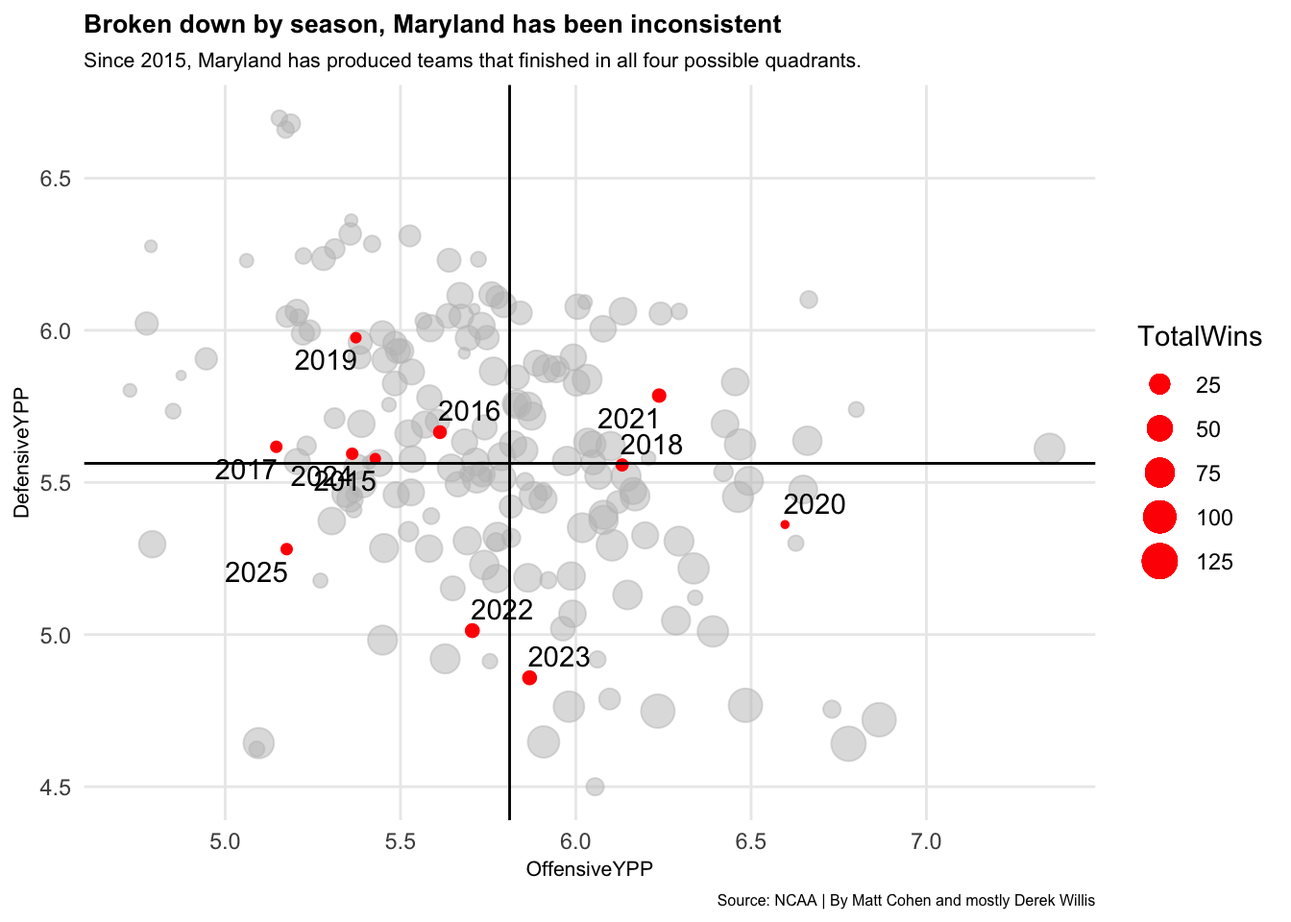
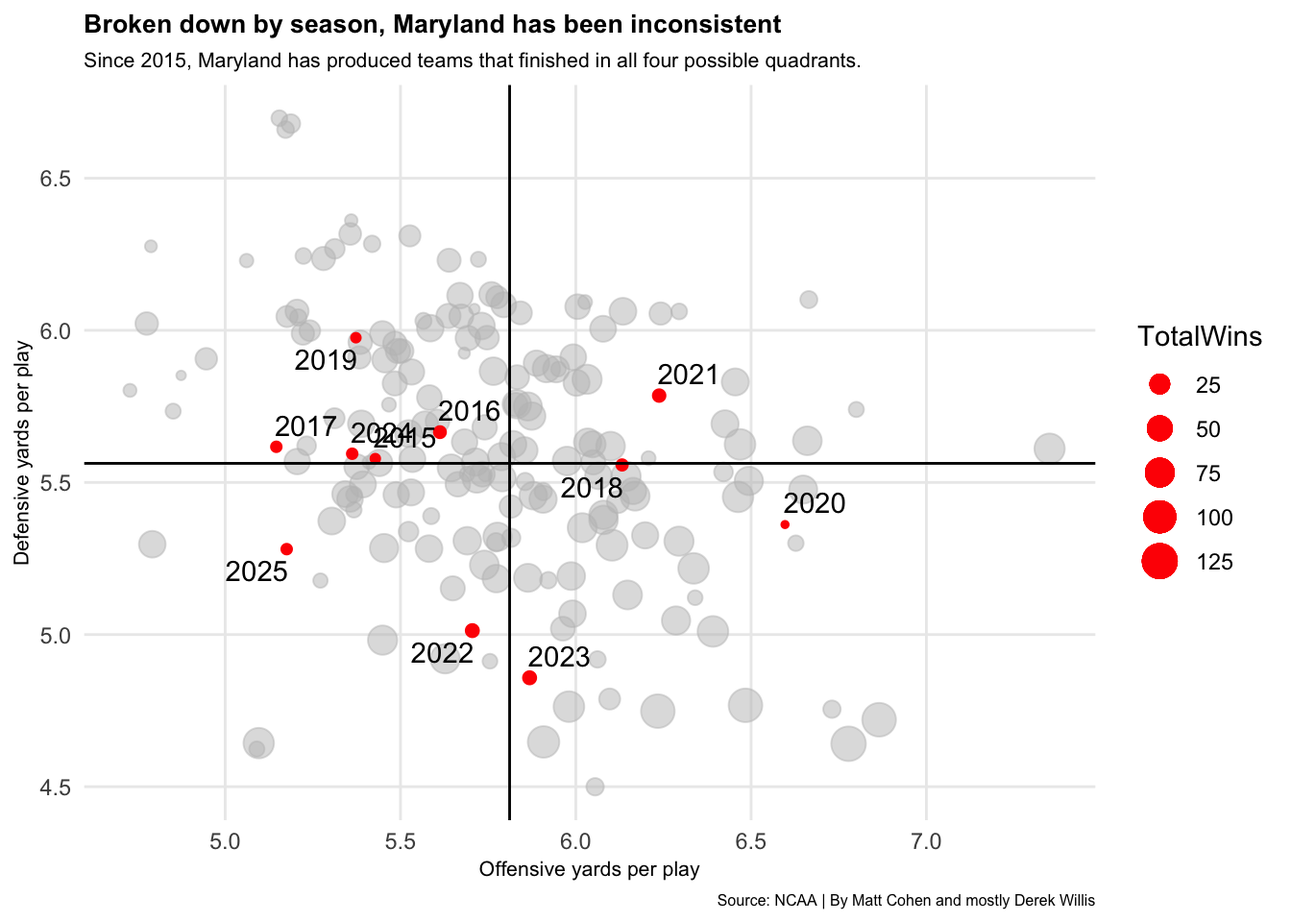
updates

diff --git a/docs/posts/terps_ypp/index.html b/docs/posts/terps_ypp/index.html
@@ -369,7 +369,7 @@ date  (1): Date
 <span id="cb12-78"><a href="#cb12-78" aria-hidden="true" tabindex="-1"></a>    <span class="at">data=</span>umass, </span>
 <span id="cb12-79"><a href="#cb12-79" aria-hidden="true" tabindex="-1"></a>    <span class="fu">aes</span>(<span class="at">x=</span>OffensiveYPP, <span class="at">y=</span>DefensiveYPP, <span class="at">label=</span>Team)</span>
 <span id="cb12-80"><a href="#cb12-80" aria-hidden="true" tabindex="-1"></a>  ) <span class="sc">+</span></span>
-<span id="cb12-81"><a href="#cb12-81" aria-hidden="true" tabindex="-1"></a>  <span class="fu">labs</span>(<span class="at">title=</span><span class="st">"Maryland among NCAA's most medicore teams over the last decade"</span>, <span class="at">subtitle=</span><span class="st">"Since 2015, the Terps are near the midpoint of all FBS teams in terms of offensive and defense yards per play."</span>, <span class="at">caption=</span><span class="st">"Teams that changed conferences appear twice. For example, the larger Oklahoma circle is its Big 12 games and the smaller one is its SEC performance. Source: NCAA | By Matt Cohen and mostly Derek Willis"</span>)  <span class="sc">+</span> <span class="fu">theme_minimal</span>() <span class="sc">+</span> </span>
+<span id="cb12-81"><a href="#cb12-81" aria-hidden="true" tabindex="-1"></a>  <span class="fu">labs</span>(<span class="at">title=</span><span class="st">"Maryland among NCAA's most medicore teams over the last decade"</span>, <span class="at">subtitle=</span><span class="st">"Since 2015, the Terps are near the midpoint of all FBS teams in terms of offensive and defense yards per play."</span>, <span class="at">caption=</span><span class="st">"Teams that changed conferences appear twice. For example, the larger Oklahoma circle is its Big 12 games and the smaller one is its SEC performance. Source: NCAA | By Matt Cohen and mostly Derek Willis"</span>, <span class="at">x =</span> <span class="st">"Offensive yards per play"</span>, <span class="at">y =</span> <span class="st">"Defensive yards per play"</span>)  <span class="sc">+</span> <span class="fu">theme_minimal</span>() <span class="sc">+</span> </span>
 <span id="cb12-82"><a href="#cb12-82" aria-hidden="true" tabindex="-1"></a>  <span class="fu">theme</span>(</span>
 <span id="cb12-83"><a href="#cb12-83" aria-hidden="true" tabindex="-1"></a>    <span class="at">plot.title =</span> <span class="fu">element_text</span>(<span class="at">size =</span> <span class="dv">10</span>, <span class="at">face =</span> <span class="st">"bold"</span>),</span>
 <span id="cb12-84"><a href="#cb12-84" aria-hidden="true" tabindex="-1"></a>    <span class="at">axis.title =</span> <span class="fu">element_text</span>(<span class="at">size =</span> <span class="dv">8</span>), </span>
@@ -554,7 +554,7 @@ using the `.groups` argument.</code></pre>
 <span id="cb17-94"><a href="#cb17-94" aria-hidden="true" tabindex="-1"></a>    <span class="at">data=</span>maryland_2025, </span>
 <span id="cb17-95"><a href="#cb17-95" aria-hidden="true" tabindex="-1"></a>    <span class="fu">aes</span>(<span class="at">x=</span>OffensiveYPP, <span class="at">y=</span>DefensiveYPP, <span class="at">label=</span> season)</span>
 <span id="cb17-96"><a href="#cb17-96" aria-hidden="true" tabindex="-1"></a>  ) <span class="sc">+</span> </span>
-<span id="cb17-97"><a href="#cb17-97" aria-hidden="true" tabindex="-1"></a>  <span class="fu">labs</span>(<span class="at">title=</span><span class="st">"Broken down by season, Maryland has been inconsistent"</span>, <span class="at">subtitle=</span><span class="st">"Since 2015, Maryland has produced teams that finished in all four possible quadrants."</span>, <span class="at">caption=</span> <span class="st">"Source: NCAA | By Matt Cohen and mostly Derek Willis"</span>)  <span class="sc">+</span> <span class="fu">theme_minimal</span>() <span class="sc">+</span> </span>
+<span id="cb17-97"><a href="#cb17-97" aria-hidden="true" tabindex="-1"></a>  <span class="fu">labs</span>(<span class="at">title=</span><span class="st">"Broken down by season, Maryland has been inconsistent"</span>, <span class="at">subtitle=</span><span class="st">"Since 2015, Maryland has produced teams that finished in all four possible quadrants."</span>, <span class="at">caption=</span> <span class="st">"Source: NCAA | By Matt Cohen and mostly Derek Willis"</span>, <span class="at">x =</span> <span class="st">"Offensive yards per play"</span>, <span class="at">y =</span> <span class="st">"Defensive yards per play"</span>)  <span class="sc">+</span> <span class="fu">theme_minimal</span>() <span class="sc">+</span> </span>
 <span id="cb17-98"><a href="#cb17-98" aria-hidden="true" tabindex="-1"></a>  <span class="fu">theme</span>(</span>
 <span id="cb17-99"><a href="#cb17-99" aria-hidden="true" tabindex="-1"></a>    <span class="at">plot.title =</span> <span class="fu">element_text</span>(<span class="at">size =</span> <span class="dv">10</span>, <span class="at">face =</span> <span class="st">"bold"</span>),</span>
 <span id="cb17-100"><a href="#cb17-100" aria-hidden="true" tabindex="-1"></a>    <span class="at">axis.title =</span> <span class="fu">element_text</span>(<span class="at">size =</span> <span class="dv">8</span>), </span>
@@ -688,7 +688,7 @@ using the `.groups` argument.</code></pre>
 <span id="cb18-107"><a href="#cb18-107" aria-hidden="true" tabindex="-1"></a>    <span class="at">data=</span>alabama_2025, </span>
 <span id="cb18-108"><a href="#cb18-108" aria-hidden="true" tabindex="-1"></a>    <span class="fu">aes</span>(<span class="at">x=</span>OffensiveYPP, <span class="at">y=</span>DefensiveYPP, <span class="at">label=</span> season)</span>
 <span id="cb18-109"><a href="#cb18-109" aria-hidden="true" tabindex="-1"></a>  ) <span class="sc">+</span> </span>
-<span id="cb18-110"><a href="#cb18-110" aria-hidden="true" tabindex="-1"></a>  <span class="fu">labs</span>(<span class="at">title=</span><span class="st">"Unlike Maryland, Alabama has an identity."</span>, <span class="at">subtitle=</span><span class="st">"Alabama's year-by-year consistent performances and identity explain why it is college football's most successful program."</span>, <span class="at">caption=</span> <span class="st">"Source: NCAA | By Matt Cohen and mostly Derek Willis"</span>)  <span class="sc">+</span> <span class="fu">theme_minimal</span>() <span class="sc">+</span> </span>
+<span id="cb18-110"><a href="#cb18-110" aria-hidden="true" tabindex="-1"></a>  <span class="fu">labs</span>(<span class="at">title=</span><span class="st">"Unlike Maryland, Alabama has an identity."</span>, <span class="at">subtitle=</span><span class="st">"Alabama's year-by-year consistent performances and identity explain why it is college football's most successful program."</span>, <span class="at">caption=</span> <span class="st">"Source: NCAA | By Matt Cohen and mostly Derek Willis"</span>, <span class="at">x =</span> <span class="st">"Offensive yards per play"</span>, <span class="at">y =</span> <span class="st">"Defensive yards per play"</span>)  <span class="sc">+</span> <span class="fu">theme_minimal</span>() <span class="sc">+</span> </span>
 <span id="cb18-111"><a href="#cb18-111" aria-hidden="true" tabindex="-1"></a>  <span class="fu">theme</span>(</span>
 <span id="cb18-112"><a href="#cb18-112" aria-hidden="true" tabindex="-1"></a>    <span class="at">plot.title =</span> <span class="fu">element_text</span>(<span class="at">size =</span> <span class="dv">10</span>, <span class="at">face =</span> <span class="st">"bold"</span>),</span>
 <span id="cb18-113"><a href="#cb18-113" aria-hidden="true" tabindex="-1"></a>    <span class="at">axis.title =</span> <span class="fu">element_text</span>(<span class="at">size =</span> <span class="dv">8</span>), </span>
@@ -820,7 +820,7 @@ using the `.groups` argument.</code></pre>
 <span id="cb19-105"><a href="#cb19-105" aria-hidden="true" tabindex="-1"></a>    <span class="at">data=</span>indiana_2025, </span>
 <span id="cb19-106"><a href="#cb19-106" aria-hidden="true" tabindex="-1"></a>    <span class="fu">aes</span>(<span class="at">x=</span>OffensiveYPP, <span class="at">y=</span>DefensiveYPP, <span class="at">label=</span> season)</span>
 <span id="cb19-107"><a href="#cb19-107" aria-hidden="true" tabindex="-1"></a>  ) <span class="sc">+</span> </span>
-<span id="cb19-108"><a href="#cb19-108" aria-hidden="true" tabindex="-1"></a>  <span class="fu">labs</span>(<span class="at">title=</span><span class="st">"Indiana shows that just about anyone can get better, with the right circumstances"</span>, <span class="at">subtitle=</span><span class="st">""</span>, <span class="at">caption=</span> <span class="st">"Source: NCAA | By Matt Cohen and mostly Derek Willis"</span>)  <span class="sc">+</span> <span class="fu">theme_minimal</span>() <span class="sc">+</span> </span>
+<span id="cb19-108"><a href="#cb19-108" aria-hidden="true" tabindex="-1"></a>  <span class="fu">labs</span>(<span class="at">title=</span><span class="st">"Indiana shows that just about anyone can get better, with the right circumstances"</span>, <span class="at">subtitle=</span><span class="st">"Maryland might not compare to Alabama, but it certainly can to Indiana."</span>, <span class="at">x =</span> <span class="st">"Offensive yards per play"</span>, <span class="at">y =</span> <span class="st">"Defensive yards per play"</span>, <span class="at">caption=</span> <span class="st">"Source: NCAA | By Matt Cohen and mostly Derek Willis"</span>)  <span class="sc">+</span> <span class="fu">theme_minimal</span>() <span class="sc">+</span> </span>
 <span id="cb19-109"><a href="#cb19-109" aria-hidden="true" tabindex="-1"></a>  <span class="fu">theme</span>(</span>
 <span id="cb19-110"><a href="#cb19-110" aria-hidden="true" tabindex="-1"></a>    <span class="at">plot.title =</span> <span class="fu">element_text</span>(<span class="at">size =</span> <span class="dv">10</span>, <span class="at">face =</span> <span class="st">"bold"</span>),</span>
 <span id="cb19-111"><a href="#cb19-111" aria-hidden="true" tabindex="-1"></a>    <span class="at">axis.title =</span> <span class="fu">element_text</span>(<span class="at">size =</span> <span class="dv">8</span>), </span>
@@ -874,135 +874,60 @@ using the `.groups` argument.</code></pre>
 <span id="cb20-29"><a href="#cb20-29" aria-hidden="true" tabindex="-1"></a>    <span class="at">color=</span><span class="st">"grey"</span>, </span>
 <span id="cb20-30"><a href="#cb20-30" aria-hidden="true" tabindex="-1"></a>    <span class="at">alpha=</span>.<span class="dv">5</span>) <span class="sc">+</span> </span>
 <span id="cb20-31"><a href="#cb20-31" aria-hidden="true" tabindex="-1"></a>  <span class="fu">geom_point</span>(</span>
-<span id="cb20-32"><a href="#cb20-32" aria-hidden="true" tabindex="-1"></a>    <span class="at">data=</span>usf_2015, </span>
+<span id="cb20-32"><a href="#cb20-32" aria-hidden="true" tabindex="-1"></a>    <span class="at">data=</span>usf_2023, </span>
 <span id="cb20-33"><a href="#cb20-33" aria-hidden="true" tabindex="-1"></a>    <span class="fu">aes</span>(<span class="at">x=</span>OffensiveYPP, <span class="at">y=</span>DefensiveYPP, <span class="at">size=</span>TotalWins), </span>
-<span id="cb20-34"><a href="#cb20-34" aria-hidden="true" tabindex="-1"></a>    <span class="at">color=</span><span class="st">"green"</span>) <span class="sc">+</span> </span>
+<span id="cb20-34"><a href="#cb20-34" aria-hidden="true" tabindex="-1"></a>    <span class="at">color=</span><span class="st">"darkgreen"</span>) <span class="sc">+</span></span>
 <span id="cb20-35"><a href="#cb20-35" aria-hidden="true" tabindex="-1"></a>  <span class="fu">geom_point</span>(</span>
-<span id="cb20-36"><a href="#cb20-36" aria-hidden="true" tabindex="-1"></a>    <span class="at">data=</span>usf_2016, </span>
+<span id="cb20-36"><a href="#cb20-36" aria-hidden="true" tabindex="-1"></a>    <span class="at">data=</span>usf_2024, </span>
 <span id="cb20-37"><a href="#cb20-37" aria-hidden="true" tabindex="-1"></a>    <span class="fu">aes</span>(<span class="at">x=</span>OffensiveYPP, <span class="at">y=</span>DefensiveYPP, <span class="at">size=</span>TotalWins), </span>
-<span id="cb20-38"><a href="#cb20-38" aria-hidden="true" tabindex="-1"></a>    <span class="at">color=</span><span class="st">"green"</span>) <span class="sc">+</span></span>
+<span id="cb20-38"><a href="#cb20-38" aria-hidden="true" tabindex="-1"></a>    <span class="at">color=</span><span class="st">"darkgreen"</span>) <span class="sc">+</span></span>
 <span id="cb20-39"><a href="#cb20-39" aria-hidden="true" tabindex="-1"></a>  <span class="fu">geom_point</span>(</span>
-<span id="cb20-40"><a href="#cb20-40" aria-hidden="true" tabindex="-1"></a>    <span class="at">data=</span>usf_2017, </span>
+<span id="cb20-40"><a href="#cb20-40" aria-hidden="true" tabindex="-1"></a>    <span class="at">data=</span>usf_2025, </span>
 <span id="cb20-41"><a href="#cb20-41" aria-hidden="true" tabindex="-1"></a>    <span class="fu">aes</span>(<span class="at">x=</span>OffensiveYPP, <span class="at">y=</span>DefensiveYPP, <span class="at">size=</span>TotalWins), </span>
-<span id="cb20-42"><a href="#cb20-42" aria-hidden="true" tabindex="-1"></a>    <span class="at">color=</span><span class="st">"green"</span>) <span class="sc">+</span></span>
+<span id="cb20-42"><a href="#cb20-42" aria-hidden="true" tabindex="-1"></a>    <span class="at">color=</span><span class="st">"darkgreen"</span>) <span class="sc">+</span></span>
 <span id="cb20-43"><a href="#cb20-43" aria-hidden="true" tabindex="-1"></a>  <span class="fu">geom_point</span>(</span>
-<span id="cb20-44"><a href="#cb20-44" aria-hidden="true" tabindex="-1"></a>    <span class="at">data=</span>usf_2018, </span>
+<span id="cb20-44"><a href="#cb20-44" aria-hidden="true" tabindex="-1"></a>    <span class="at">data=</span>jmu_2022, </span>
 <span id="cb20-45"><a href="#cb20-45" aria-hidden="true" tabindex="-1"></a>    <span class="fu">aes</span>(<span class="at">x=</span>OffensiveYPP, <span class="at">y=</span>DefensiveYPP, <span class="at">size=</span>TotalWins), </span>
-<span id="cb20-46"><a href="#cb20-46" aria-hidden="true" tabindex="-1"></a>    <span class="at">color=</span><span class="st">"green"</span>) <span class="sc">+</span></span>
+<span id="cb20-46"><a href="#cb20-46" aria-hidden="true" tabindex="-1"></a>    <span class="at">color=</span><span class="st">"red"</span>) <span class="sc">+</span></span>
 <span id="cb20-47"><a href="#cb20-47" aria-hidden="true" tabindex="-1"></a>  <span class="fu">geom_point</span>(</span>
-<span id="cb20-48"><a href="#cb20-48" aria-hidden="true" tabindex="-1"></a>  <span class="at">data=</span>usf_2019, </span>
+<span id="cb20-48"><a href="#cb20-48" aria-hidden="true" tabindex="-1"></a>    <span class="at">data=</span>jmu_2023, </span>
 <span id="cb20-49"><a href="#cb20-49" aria-hidden="true" tabindex="-1"></a>    <span class="fu">aes</span>(<span class="at">x=</span>OffensiveYPP, <span class="at">y=</span>DefensiveYPP, <span class="at">size=</span>TotalWins), </span>
-<span id="cb20-50"><a href="#cb20-50" aria-hidden="true" tabindex="-1"></a>    <span class="at">color=</span><span class="st">"green"</span>) <span class="sc">+</span></span>
+<span id="cb20-50"><a href="#cb20-50" aria-hidden="true" tabindex="-1"></a>    <span class="at">color=</span><span class="st">"red"</span>) <span class="sc">+</span></span>
 <span id="cb20-51"><a href="#cb20-51" aria-hidden="true" tabindex="-1"></a>  <span class="fu">geom_point</span>(</span>
-<span id="cb20-52"><a href="#cb20-52" aria-hidden="true" tabindex="-1"></a>    <span class="at">data=</span>usf_2020, </span>
+<span id="cb20-52"><a href="#cb20-52" aria-hidden="true" tabindex="-1"></a>    <span class="at">data=</span>jmu_2024, </span>
 <span id="cb20-53"><a href="#cb20-53" aria-hidden="true" tabindex="-1"></a>    <span class="fu">aes</span>(<span class="at">x=</span>OffensiveYPP, <span class="at">y=</span>DefensiveYPP, <span class="at">size=</span>TotalWins), </span>
-<span id="cb20-54"><a href="#cb20-54" aria-hidden="true" tabindex="-1"></a>    <span class="at">color=</span><span class="st">"green"</span>) <span class="sc">+</span></span>
+<span id="cb20-54"><a href="#cb20-54" aria-hidden="true" tabindex="-1"></a>    <span class="at">color=</span><span class="st">"purple"</span>) <span class="sc">+</span></span>
 <span id="cb20-55"><a href="#cb20-55" aria-hidden="true" tabindex="-1"></a>  <span class="fu">geom_point</span>(</span>
-<span id="cb20-56"><a href="#cb20-56" aria-hidden="true" tabindex="-1"></a>    <span class="at">data=</span>usf_2021, </span>
+<span id="cb20-56"><a href="#cb20-56" aria-hidden="true" tabindex="-1"></a>    <span class="at">data=</span>jmu_2025, </span>
 <span id="cb20-57"><a href="#cb20-57" aria-hidden="true" tabindex="-1"></a>    <span class="fu">aes</span>(<span class="at">x=</span>OffensiveYPP, <span class="at">y=</span>DefensiveYPP, <span class="at">size=</span>TotalWins), </span>
-<span id="cb20-58"><a href="#cb20-58" aria-hidden="true" tabindex="-1"></a>    <span class="at">color=</span><span class="st">"green"</span>) <span class="sc">+</span></span>
+<span id="cb20-58"><a href="#cb20-58" aria-hidden="true" tabindex="-1"></a>    <span class="at">color=</span><span class="st">"purple"</span>) <span class="sc">+</span></span>
 <span id="cb20-59"><a href="#cb20-59" aria-hidden="true" tabindex="-1"></a>  <span class="fu">geom_point</span>(</span>
-<span id="cb20-60"><a href="#cb20-60" aria-hidden="true" tabindex="-1"></a>    <span class="at">data=</span>usf_2022, </span>
+<span id="cb20-60"><a href="#cb20-60" aria-hidden="true" tabindex="-1"></a>    <span class="at">data=</span>sumrall_2022, </span>
 <span id="cb20-61"><a href="#cb20-61" aria-hidden="true" tabindex="-1"></a>    <span class="fu">aes</span>(<span class="at">x=</span>OffensiveYPP, <span class="at">y=</span>DefensiveYPP, <span class="at">size=</span>TotalWins), </span>
-<span id="cb20-62"><a href="#cb20-62" aria-hidden="true" tabindex="-1"></a>    <span class="at">color=</span><span class="st">"green"</span>) <span class="sc">+</span></span>
+<span id="cb20-62"><a href="#cb20-62" aria-hidden="true" tabindex="-1"></a>    <span class="at">color=</span><span class="st">"gold"</span>) <span class="sc">+</span></span>
 <span id="cb20-63"><a href="#cb20-63" aria-hidden="true" tabindex="-1"></a>  <span class="fu">geom_point</span>(</span>
-<span id="cb20-64"><a href="#cb20-64" aria-hidden="true" tabindex="-1"></a>    <span class="at">data=</span>usf_2023, </span>
+<span id="cb20-64"><a href="#cb20-64" aria-hidden="true" tabindex="-1"></a>    <span class="at">data=</span>sumrall_2023, </span>
 <span id="cb20-65"><a href="#cb20-65" aria-hidden="true" tabindex="-1"></a>    <span class="fu">aes</span>(<span class="at">x=</span>OffensiveYPP, <span class="at">y=</span>DefensiveYPP, <span class="at">size=</span>TotalWins), </span>
-<span id="cb20-66"><a href="#cb20-66" aria-hidden="true" tabindex="-1"></a>    <span class="at">color=</span><span class="st">"darkgreen"</span>) <span class="sc">+</span></span>
+<span id="cb20-66"><a href="#cb20-66" aria-hidden="true" tabindex="-1"></a>    <span class="at">color=</span><span class="st">"gold"</span>) <span class="sc">+</span></span>
 <span id="cb20-67"><a href="#cb20-67" aria-hidden="true" tabindex="-1"></a>  <span class="fu">geom_point</span>(</span>
-<span id="cb20-68"><a href="#cb20-68" aria-hidden="true" tabindex="-1"></a>    <span class="at">data=</span>usf_2024, </span>
+<span id="cb20-68"><a href="#cb20-68" aria-hidden="true" tabindex="-1"></a>    <span class="at">data=</span>sumrall_2024, </span>
 <span id="cb20-69"><a href="#cb20-69" aria-hidden="true" tabindex="-1"></a>    <span class="fu">aes</span>(<span class="at">x=</span>OffensiveYPP, <span class="at">y=</span>DefensiveYPP, <span class="at">size=</span>TotalWins), </span>
-<span id="cb20-70"><a href="#cb20-70" aria-hidden="true" tabindex="-1"></a>    <span class="at">color=</span><span class="st">"darkgreen"</span>) <span class="sc">+</span></span>
+<span id="cb20-70"><a href="#cb20-70" aria-hidden="true" tabindex="-1"></a>    <span class="at">color=</span><span class="st">"gold"</span>) <span class="sc">+</span></span>
 <span id="cb20-71"><a href="#cb20-71" aria-hidden="true" tabindex="-1"></a>  <span class="fu">geom_point</span>(</span>
-<span id="cb20-72"><a href="#cb20-72" aria-hidden="true" tabindex="-1"></a>    <span class="at">data=</span>usf_2025, </span>
+<span id="cb20-72"><a href="#cb20-72" aria-hidden="true" tabindex="-1"></a>    <span class="at">data=</span>sumrall_2025, </span>
 <span id="cb20-73"><a href="#cb20-73" aria-hidden="true" tabindex="-1"></a>    <span class="fu">aes</span>(<span class="at">x=</span>OffensiveYPP, <span class="at">y=</span>DefensiveYPP, <span class="at">size=</span>TotalWins), </span>
-<span id="cb20-74"><a href="#cb20-74" aria-hidden="true" tabindex="-1"></a>    <span class="at">color=</span><span class="st">"darkgreen"</span>) <span class="sc">+</span></span>
-<span id="cb20-75"><a href="#cb20-75" aria-hidden="true" tabindex="-1"></a>  <span class="fu">geom_point</span>(</span>
-<span id="cb20-76"><a href="#cb20-76" aria-hidden="true" tabindex="-1"></a>    <span class="at">data=</span>jmu_2022, </span>
-<span id="cb20-77"><a href="#cb20-77" aria-hidden="true" tabindex="-1"></a>    <span class="fu">aes</span>(<span class="at">x=</span>OffensiveYPP, <span class="at">y=</span>DefensiveYPP, <span class="at">size=</span>TotalWins), </span>
-<span id="cb20-78"><a href="#cb20-78" aria-hidden="true" tabindex="-1"></a>    <span class="at">color=</span><span class="st">"red"</span>) <span class="sc">+</span></span>
-<span id="cb20-79"><a href="#cb20-79" aria-hidden="true" tabindex="-1"></a>  <span class="fu">geom_point</span>(</span>
-<span id="cb20-80"><a href="#cb20-80" aria-hidden="true" tabindex="-1"></a>    <span class="at">data=</span>jmu_2023, </span>
-<span id="cb20-81"><a href="#cb20-81" aria-hidden="true" tabindex="-1"></a>    <span class="fu">aes</span>(<span class="at">x=</span>OffensiveYPP, <span class="at">y=</span>DefensiveYPP, <span class="at">size=</span>TotalWins), </span>
-<span id="cb20-82"><a href="#cb20-82" aria-hidden="true" tabindex="-1"></a>    <span class="at">color=</span><span class="st">"red"</span>) <span class="sc">+</span></span>
-<span id="cb20-83"><a href="#cb20-83" aria-hidden="true" tabindex="-1"></a>  <span class="fu">geom_point</span>(</span>
-<span id="cb20-84"><a href="#cb20-84" aria-hidden="true" tabindex="-1"></a>    <span class="at">data=</span>jmu_2024, </span>
-<span id="cb20-85"><a href="#cb20-85" aria-hidden="true" tabindex="-1"></a>    <span class="fu">aes</span>(<span class="at">x=</span>OffensiveYPP, <span class="at">y=</span>DefensiveYPP, <span class="at">size=</span>TotalWins), </span>
-<span id="cb20-86"><a href="#cb20-86" aria-hidden="true" tabindex="-1"></a>    <span class="at">color=</span><span class="st">"purple"</span>) <span class="sc">+</span></span>
-<span id="cb20-87"><a href="#cb20-87" aria-hidden="true" tabindex="-1"></a>  <span class="fu">geom_point</span>(</span>
-<span id="cb20-88"><a href="#cb20-88" aria-hidden="true" tabindex="-1"></a>    <span class="at">data=</span>jmu_2025, </span>
-<span id="cb20-89"><a href="#cb20-89" aria-hidden="true" tabindex="-1"></a>    <span class="fu">aes</span>(<span class="at">x=</span>OffensiveYPP, <span class="at">y=</span>DefensiveYPP, <span class="at">size=</span>TotalWins), </span>
-<span id="cb20-90"><a href="#cb20-90" aria-hidden="true" tabindex="-1"></a>    <span class="at">color=</span><span class="st">"purple"</span>) <span class="sc">+</span></span>
-<span id="cb20-91"><a href="#cb20-91" aria-hidden="true" tabindex="-1"></a>  <span class="fu">geom_point</span>(</span>
-<span id="cb20-92"><a href="#cb20-92" aria-hidden="true" tabindex="-1"></a>    <span class="at">data=</span>sumrall_2022, </span>
-<span id="cb20-93"><a href="#cb20-93" aria-hidden="true" tabindex="-1"></a>    <span class="fu">aes</span>(<span class="at">x=</span>OffensiveYPP, <span class="at">y=</span>DefensiveYPP, <span class="at">size=</span>TotalWins), </span>
-<span id="cb20-94"><a href="#cb20-94" aria-hidden="true" tabindex="-1"></a>    <span class="at">color=</span><span class="st">"gold"</span>) <span class="sc">+</span></span>
-<span id="cb20-95"><a href="#cb20-95" aria-hidden="true" tabindex="-1"></a>  <span class="fu">geom_point</span>(</span>
-<span id="cb20-96"><a href="#cb20-96" aria-hidden="true" tabindex="-1"></a>    <span class="at">data=</span>sumrall_2023, </span>
-<span id="cb20-97"><a href="#cb20-97" aria-hidden="true" tabindex="-1"></a>    <span class="fu">aes</span>(<span class="at">x=</span>OffensiveYPP, <span class="at">y=</span>DefensiveYPP, <span class="at">size=</span>TotalWins), </span>
-<span id="cb20-98"><a href="#cb20-98" aria-hidden="true" tabindex="-1"></a>    <span class="at">color=</span><span class="st">"gold"</span>) <span class="sc">+</span></span>
-<span id="cb20-99"><a href="#cb20-99" aria-hidden="true" tabindex="-1"></a>  <span class="fu">geom_point</span>(</span>
-<span id="cb20-100"><a href="#cb20-100" aria-hidden="true" tabindex="-1"></a>    <span class="at">data=</span>sumrall_2024, </span>
-<span id="cb20-101"><a href="#cb20-101" aria-hidden="true" tabindex="-1"></a>    <span class="fu">aes</span>(<span class="at">x=</span>OffensiveYPP, <span class="at">y=</span>DefensiveYPP, <span class="at">size=</span>TotalWins), </span>
-<span id="cb20-102"><a href="#cb20-102" aria-hidden="true" tabindex="-1"></a>    <span class="at">color=</span><span class="st">"gold"</span>) <span class="sc">+</span></span>
-<span id="cb20-103"><a href="#cb20-103" aria-hidden="true" tabindex="-1"></a>  <span class="fu">geom_point</span>(</span>
-<span id="cb20-104"><a href="#cb20-104" aria-hidden="true" tabindex="-1"></a>    <span class="at">data=</span>sumrall_2025, </span>
-<span id="cb20-105"><a href="#cb20-105" aria-hidden="true" tabindex="-1"></a>    <span class="fu">aes</span>(<span class="at">x=</span>OffensiveYPP, <span class="at">y=</span>DefensiveYPP, <span class="at">size=</span>TotalWins), </span>
-<span id="cb20-106"><a href="#cb20-106" aria-hidden="true" tabindex="-1"></a>    <span class="at">color=</span><span class="st">"gold"</span>) <span class="sc">+</span></span>
-<span id="cb20-107"><a href="#cb20-107" aria-hidden="true" tabindex="-1"></a>  <span class="fu">geom_vline</span>(<span class="at">xintercept =</span> <span class="fl">5.811255</span>) <span class="sc">+</span> </span>
-<span id="cb20-108"><a href="#cb20-108" aria-hidden="true" tabindex="-1"></a>  <span class="fu">geom_hline</span>(<span class="at">yintercept =</span> <span class="fl">5.562701</span>) <span class="sc">+</span></span>
-<span id="cb20-109"><a href="#cb20-109" aria-hidden="true" tabindex="-1"></a>  <span class="fu">geom_text_repel</span>(</span>
-<span id="cb20-110"><a href="#cb20-110" aria-hidden="true" tabindex="-1"></a>    <span class="at">data=</span>usf_2015, </span>
-<span id="cb20-111"><a href="#cb20-111" aria-hidden="true" tabindex="-1"></a>    <span class="fu">aes</span>(<span class="at">x=</span>OffensiveYPP, <span class="at">y=</span>DefensiveYPP, <span class="at">label=</span> season)</span>
-<span id="cb20-112"><a href="#cb20-112" aria-hidden="true" tabindex="-1"></a>  ) <span class="sc">+</span> </span>
-<span id="cb20-113"><a href="#cb20-113" aria-hidden="true" tabindex="-1"></a> <span class="fu">geom_text_repel</span>(</span>
-<span id="cb20-114"><a href="#cb20-114" aria-hidden="true" tabindex="-1"></a>    <span class="at">data=</span>usf_2016, </span>
-<span id="cb20-115"><a href="#cb20-115" aria-hidden="true" tabindex="-1"></a>    <span class="fu">aes</span>(<span class="at">x=</span>OffensiveYPP, <span class="at">y=</span>DefensiveYPP, <span class="at">label=</span> season)</span>
-<span id="cb20-116"><a href="#cb20-116" aria-hidden="true" tabindex="-1"></a>  ) <span class="sc">+</span> </span>
-<span id="cb20-117"><a href="#cb20-117" aria-hidden="true" tabindex="-1"></a>  <span class="fu">geom_text_repel</span>(</span>
-<span id="cb20-118"><a href="#cb20-118" aria-hidden="true" tabindex="-1"></a>    <span class="at">data=</span>usf_2017, </span>
-<span id="cb20-119"><a href="#cb20-119" aria-hidden="true" tabindex="-1"></a>    <span class="fu">aes</span>(<span class="at">x=</span>OffensiveYPP, <span class="at">y=</span>DefensiveYPP, <span class="at">label=</span> season)</span>
-<span id="cb20-120"><a href="#cb20-120" aria-hidden="true" tabindex="-1"></a>  ) <span class="sc">+</span> </span>
-<span id="cb20-121"><a href="#cb20-121" aria-hidden="true" tabindex="-1"></a>  <span class="fu">geom_text_repel</span>(</span>
-<span id="cb20-122"><a href="#cb20-122" aria-hidden="true" tabindex="-1"></a>    <span class="at">data=</span>usf_2018, </span>
-<span id="cb20-123"><a href="#cb20-123" aria-hidden="true" tabindex="-1"></a>    <span class="fu">aes</span>(<span class="at">x=</span>OffensiveYPP, <span class="at">y=</span>DefensiveYPP, <span class="at">label=</span> season)</span>
-<span id="cb20-124"><a href="#cb20-124" aria-hidden="true" tabindex="-1"></a>  ) <span class="sc">+</span> </span>
-<span id="cb20-125"><a href="#cb20-125" aria-hidden="true" tabindex="-1"></a> <span class="fu">geom_text_repel</span>(</span>
-<span id="cb20-126"><a href="#cb20-126" aria-hidden="true" tabindex="-1"></a>    <span class="at">data=</span>usf_2019, </span>
-<span id="cb20-127"><a href="#cb20-127" aria-hidden="true" tabindex="-1"></a>    <span class="fu">aes</span>(<span class="at">x=</span>OffensiveYPP, <span class="at">y=</span>DefensiveYPP, <span class="at">label=</span> season)</span>
-<span id="cb20-128"><a href="#cb20-128" aria-hidden="true" tabindex="-1"></a>  ) <span class="sc">+</span> </span>
-<span id="cb20-129"><a href="#cb20-129" aria-hidden="true" tabindex="-1"></a>  <span class="fu">geom_text_repel</span>(</span>
-<span id="cb20-130"><a href="#cb20-130" aria-hidden="true" tabindex="-1"></a>    <span class="at">data=</span>usf_2020, </span>
-<span id="cb20-131"><a href="#cb20-131" aria-hidden="true" tabindex="-1"></a>    <span class="fu">aes</span>(<span class="at">x=</span>OffensiveYPP, <span class="at">y=</span>DefensiveYPP, <span class="at">label=</span> season)</span>
-<span id="cb20-132"><a href="#cb20-132" aria-hidden="true" tabindex="-1"></a>  ) <span class="sc">+</span> </span>
-<span id="cb20-133"><a href="#cb20-133" aria-hidden="true" tabindex="-1"></a> <span class="fu">geom_text_repel</span>(</span>
-<span id="cb20-134"><a href="#cb20-134" aria-hidden="true" tabindex="-1"></a>    <span class="at">data=</span>usf_2021, </span>
-<span id="cb20-135"><a href="#cb20-135" aria-hidden="true" tabindex="-1"></a>    <span class="fu">aes</span>(<span class="at">x=</span>OffensiveYPP, <span class="at">y=</span>DefensiveYPP, <span class="at">label=</span> season)</span>
-<span id="cb20-136"><a href="#cb20-136" aria-hidden="true" tabindex="-1"></a>  ) <span class="sc">+</span> </span>
-<span id="cb20-137"><a href="#cb20-137" aria-hidden="true" tabindex="-1"></a>  <span class="fu">geom_text_repel</span>(</span>
-<span id="cb20-138"><a href="#cb20-138" aria-hidden="true" tabindex="-1"></a>    <span class="at">data=</span>usf_2022, </span>
-<span id="cb20-139"><a href="#cb20-139" aria-hidden="true" tabindex="-1"></a>    <span class="fu">aes</span>(<span class="at">x=</span>OffensiveYPP, <span class="at">y=</span>DefensiveYPP, <span class="at">label=</span> season)</span>
-<span id="cb20-140"><a href="#cb20-140" aria-hidden="true" tabindex="-1"></a>  ) <span class="sc">+</span> </span>
-<span id="cb20-141"><a href="#cb20-141" aria-hidden="true" tabindex="-1"></a>  <span class="fu">geom_text_repel</span>(</span>
-<span id="cb20-142"><a href="#cb20-142" aria-hidden="true" tabindex="-1"></a>    <span class="at">data=</span>usf_2023, </span>
-<span id="cb20-143"><a href="#cb20-143" aria-hidden="true" tabindex="-1"></a>    <span class="fu">aes</span>(<span class="at">x=</span>OffensiveYPP, <span class="at">y=</span>DefensiveYPP, <span class="at">label=</span> season)</span>
-<span id="cb20-144"><a href="#cb20-144" aria-hidden="true" tabindex="-1"></a>  ) <span class="sc">+</span> </span>
-<span id="cb20-145"><a href="#cb20-145" aria-hidden="true" tabindex="-1"></a>  <span class="fu">geom_text_repel</span>(</span>
-<span id="cb20-146"><a href="#cb20-146" aria-hidden="true" tabindex="-1"></a>    <span class="at">data=</span>usf_2024, </span>
-<span id="cb20-147"><a href="#cb20-147" aria-hidden="true" tabindex="-1"></a>    <span class="fu">aes</span>(<span class="at">x=</span>OffensiveYPP, <span class="at">y=</span>DefensiveYPP, <span class="at">label=</span> season)</span>
-<span id="cb20-148"><a href="#cb20-148" aria-hidden="true" tabindex="-1"></a>  ) <span class="sc">+</span> </span>
-<span id="cb20-149"><a href="#cb20-149" aria-hidden="true" tabindex="-1"></a>  <span class="fu">geom_text_repel</span>(</span>
-<span id="cb20-150"><a href="#cb20-150" aria-hidden="true" tabindex="-1"></a>    <span class="at">data=</span>usf_2025, </span>
-<span id="cb20-151"><a href="#cb20-151" aria-hidden="true" tabindex="-1"></a>    <span class="fu">aes</span>(<span class="at">x=</span>OffensiveYPP, <span class="at">y=</span>DefensiveYPP, <span class="at">label=</span> season)</span>
-<span id="cb20-152"><a href="#cb20-152" aria-hidden="true" tabindex="-1"></a>  ) <span class="sc">+</span> </span>
-<span id="cb20-153"><a href="#cb20-153" aria-hidden="true" tabindex="-1"></a>  <span class="fu">labs</span>(<span class="at">title=</span><span class="st">"Which Group of 5 coach should Maryland hire?"</span>, <span class="at">subtitle=</span><span class="st">"Bobby Chesney?????? Oh???"</span>, <span class="at">caption=</span> <span class="st">"Source: NCAA | By Matt Cohen and mostly Derek Willis"</span>)  <span class="sc">+</span> <span class="fu">theme_minimal</span>() <span class="sc">+</span> </span>
-<span id="cb20-154"><a href="#cb20-154" aria-hidden="true" tabindex="-1"></a>  <span class="fu">theme</span>(</span>
-<span id="cb20-155"><a href="#cb20-155" aria-hidden="true" tabindex="-1"></a>    <span class="at">plot.title =</span> <span class="fu">element_text</span>(<span class="at">size =</span> <span class="dv">10</span>, <span class="at">face =</span> <span class="st">"bold"</span>),</span>
-<span id="cb20-156"><a href="#cb20-156" aria-hidden="true" tabindex="-1"></a>    <span class="at">axis.title =</span> <span class="fu">element_text</span>(<span class="at">size =</span> <span class="dv">8</span>), </span>
-<span id="cb20-157"><a href="#cb20-157" aria-hidden="true" tabindex="-1"></a>    <span class="at">plot.subtitle =</span> <span class="fu">element_text</span>(<span class="at">size=</span><span class="dv">8</span>), </span>
-<span id="cb20-158"><a href="#cb20-158" aria-hidden="true" tabindex="-1"></a>    <span class="at">plot.caption =</span> <span class="fu">element_text</span>(<span class="at">size=</span><span class="dv">6</span>),</span>
-<span id="cb20-159"><a href="#cb20-159" aria-hidden="true" tabindex="-1"></a>    <span class="at">panel.grid.minor =</span> <span class="fu">element_blank</span>()</span>
-<span id="cb20-160"><a href="#cb20-160" aria-hidden="true" tabindex="-1"></a>    )</span></code><button title="Copy to Clipboard" class="code-copy-button"><i class="bi"></i></button></pre></div>
+<span id="cb20-74"><a href="#cb20-74" aria-hidden="true" tabindex="-1"></a>    <span class="at">color=</span><span class="st">"gold"</span>) <span class="sc">+</span></span>
+<span id="cb20-75"><a href="#cb20-75" aria-hidden="true" tabindex="-1"></a>  <span class="fu">geom_vline</span>(<span class="at">xintercept =</span> <span class="fl">5.811255</span>) <span class="sc">+</span> </span>
+<span id="cb20-76"><a href="#cb20-76" aria-hidden="true" tabindex="-1"></a>  <span class="fu">geom_hline</span>(<span class="at">yintercept =</span> <span class="fl">5.562701</span>) <span class="sc">+</span></span>
+<span id="cb20-77"><a href="#cb20-77" aria-hidden="true" tabindex="-1"></a>  <span class="fu">labs</span>(<span class="at">title=</span><span class="st">"Which Group of 5 coach should Maryland hire?"</span>, <span class="at">subtitle=</span><span class="st">"Dark green = USF with Alex Golesh. Gold = Jon Sumrall teams at Troy or Tulane. Red = Curt Cignetti at JMU. Purple = Bob Chesney at JMU."</span>, <span class="at">caption=</span> <span class="st">"Source: NCAA | By Matt Cohen and mostly Derek Willis"</span>, <span class="at">x =</span> <span class="st">"Offensive yards per play"</span>, <span class="at">y =</span> <span class="st">"Defensive yards per play"</span>)  <span class="sc">+</span> </span>
+<span id="cb20-78"><a href="#cb20-78" aria-hidden="true" tabindex="-1"></a>  <span class="fu">theme_minimal</span>() <span class="sc">+</span> </span>
+<span id="cb20-79"><a href="#cb20-79" aria-hidden="true" tabindex="-1"></a>  <span class="fu">theme</span>(</span>
+<span id="cb20-80"><a href="#cb20-80" aria-hidden="true" tabindex="-1"></a>    <span class="at">plot.title =</span> <span class="fu">element_text</span>(<span class="at">size =</span> <span class="dv">10</span>, <span class="at">face =</span> <span class="st">"bold"</span>),</span>
+<span id="cb20-81"><a href="#cb20-81" aria-hidden="true" tabindex="-1"></a>    <span class="at">axis.title =</span> <span class="fu">element_text</span>(<span class="at">size =</span> <span class="dv">8</span>), </span>
+<span id="cb20-82"><a href="#cb20-82" aria-hidden="true" tabindex="-1"></a>    <span class="at">plot.subtitle =</span> <span class="fu">element_text</span>(<span class="at">size=</span><span class="dv">8</span>), </span>
+<span id="cb20-83"><a href="#cb20-83" aria-hidden="true" tabindex="-1"></a>    <span class="at">plot.caption =</span> <span class="fu">element_text</span>(<span class="at">size=</span><span class="dv">6</span>),</span>
+<span id="cb20-84"><a href="#cb20-84" aria-hidden="true" tabindex="-1"></a>    <span class="at">panel.grid.minor =</span> <span class="fu">element_blank</span>()</span>
+<span id="cb20-85"><a href="#cb20-85" aria-hidden="true" tabindex="-1"></a>    )</span></code><button title="Copy to Clipboard" class="code-copy-button"><i class="bi"></i></button></pre></div>
 </details>
 <div class="cell-output-display">
 <div>

diff --git a/docs/index.html b/docs/index.html
@@ -231,7 +231,7 @@ Matt Cohen
 </a>
 </div>
 </div>
-<div class="quarto-post image-right" data-index="1" data-listing-date-sort="1761624000000" data-listing-file-modified-sort="1762455241314" data-listing-date-modified-sort="NaN" data-listing-reading-time-sort="24" data-listing-word-count-sort="4664">
+<div class="quarto-post image-right" data-index="1" data-listing-date-sort="1761624000000" data-listing-file-modified-sort="1762455752764" data-listing-date-modified-sort="NaN" data-listing-reading-time-sort="23" data-listing-word-count-sort="4416">
 <div class="thumbnail"><a href="./posts/terps_ypp/index.html" class="no-external">
 
 <p class="card-img-top"><img src="posts/terps_ypp/index_files/figure-html/unnamed-chunk-5-1.png"  class="thumbnail-image card-img"/></p>
